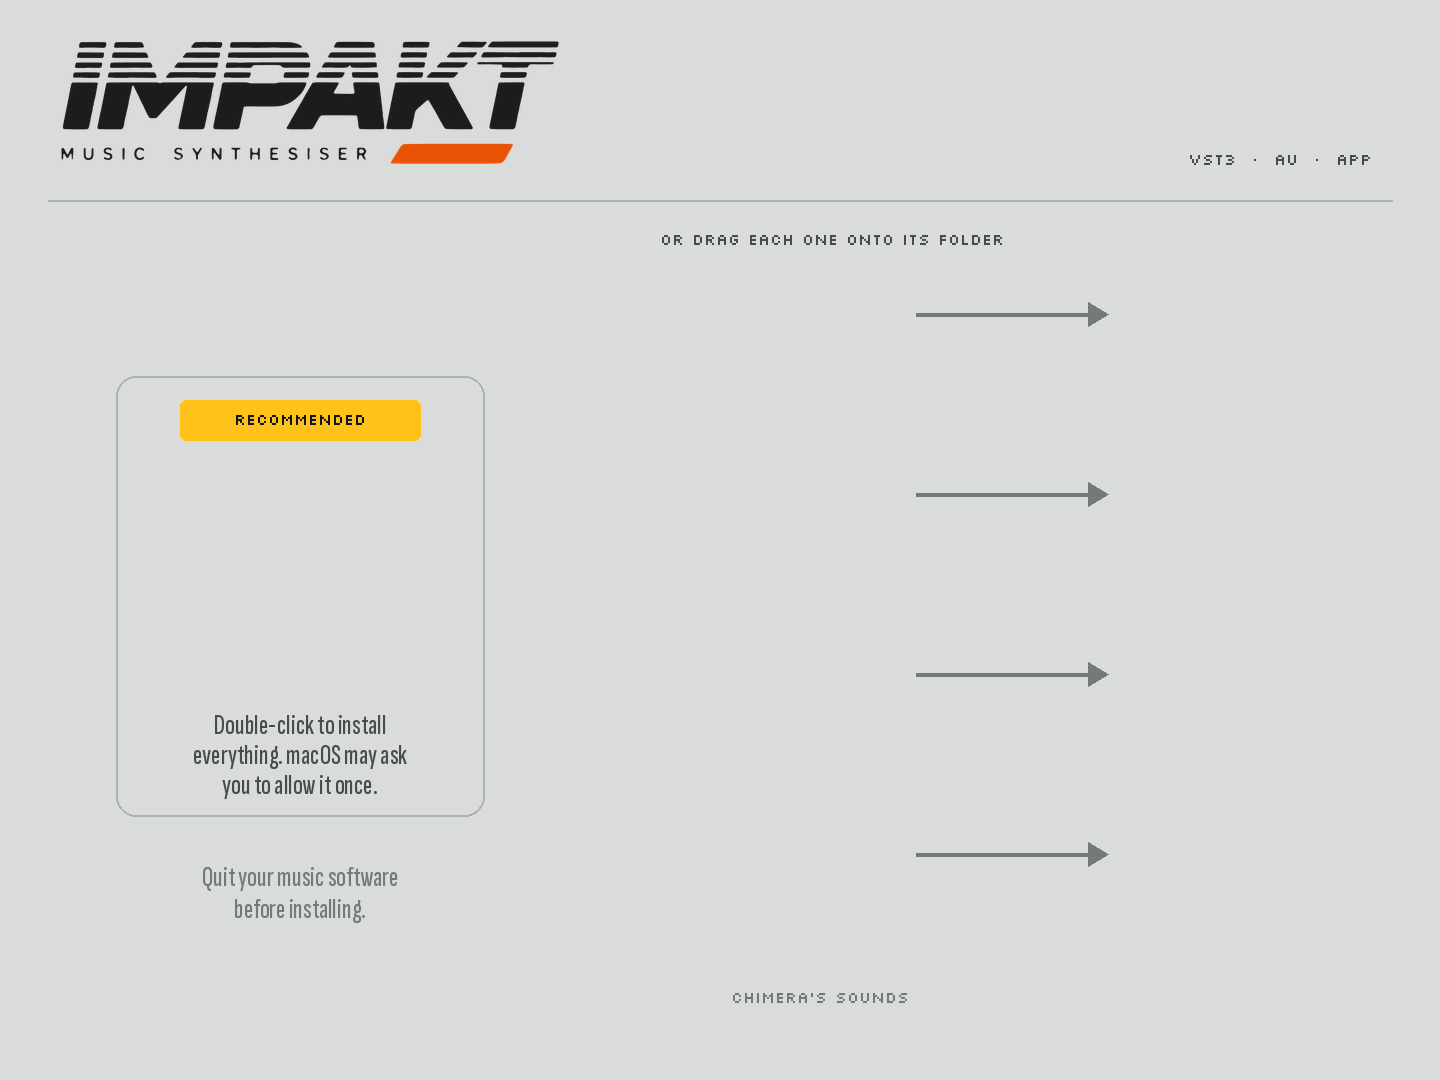
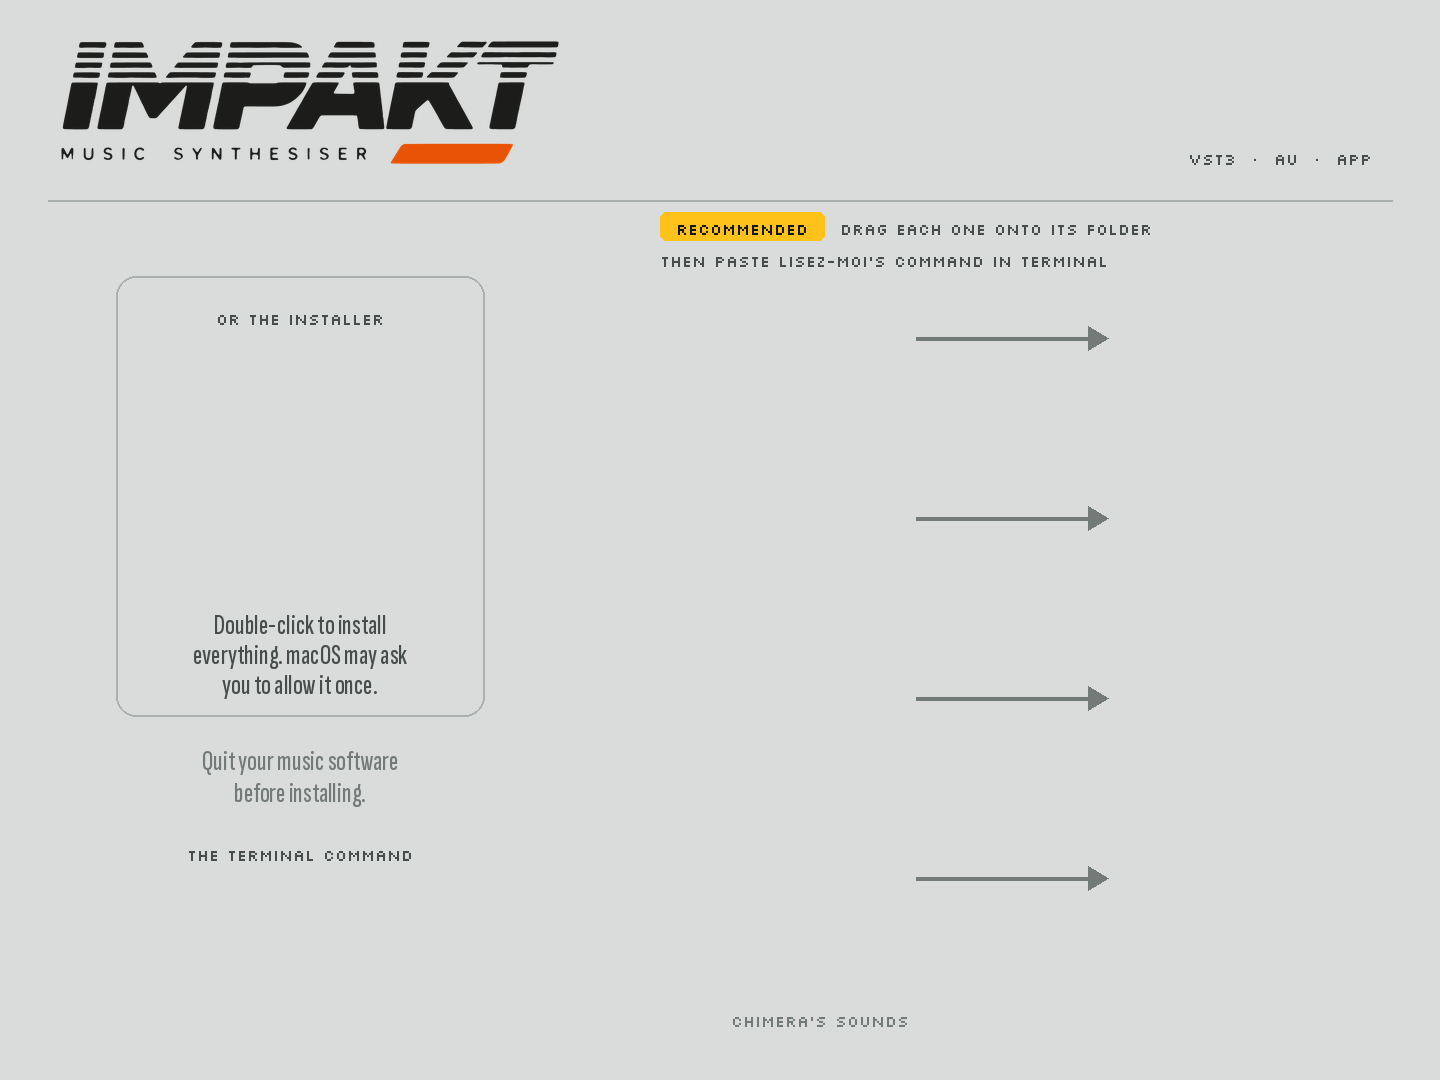
Mac: drag each item onto its folder, then one Terminal command
packaging/mac/terminal-command.txt: one line to paste in Terminal after dragging (or after the
installer): it removes old copies from ~/Library/Audio/Plug-Ins, clears the quarantine and signs
the VST3, the AU and the app again (ad hoc), restarts AudioComponentRegistrar and runs auval,
then says "IMPAKT est prêt." The site's install page shows it at once (copy button, the keys
that open Terminal); the disk image's read-me carries it (make_dmg.sh puts it in) and is now
visible in the window, under the installer; the background marks the drag route as recommended.

Claude-Session: https://claude.ai/code/session_01NNutK6xB6qt9E5xpquZjcG

diff --git a/site/style.css b/site/style.css
@@ -115,6 +115,12 @@ h1 { font: 900 clamp(40px, 7vw, 64px)/0.95 var(--f-display); letter-spacing: .00
 .cmd { position: relative; margin: 6px 0 12px; }
 .cmd pre { margin: 0; background: var(--lcd); color: var(--lcd-ink); padding: 14px 84px 14px 14px; border-radius: 6px; overflow-x: auto; line-height: 1.55; }
 .cmd pre code { background: none; padding: 0; font-size: 13px; color: inherit; overflow-wrap: normal; }
+.cmd.wrap pre { white-space: pre-wrap; padding: 46px 14px 14px; }
+.cmd.wrap pre code { overflow-wrap: anywhere; font-size: 12.5px; }
+kbd { font: 700 14px/1 var(--f-ui); letter-spacing: .04em; padding: 4px 7px 3px; border-radius: 4px; background: var(--key); box-shadow: var(--raise); white-space: nowrap; }
+.pairs { list-style: none; margin: 6px 0 10px; padding: 0; display: grid; gap: 6px; }
+.pairs li { display: flex; flex-wrap: wrap; align-items: baseline; gap: 4px 10px; }
+.pairs span { color: var(--ink-3); }
 .cmd .copy { position: absolute; top: 8px; right: 8px; font: 700 14px/1 var(--f-ui); letter-spacing: .06em; text-transform: uppercase; border: 0; cursor: pointer;
   padding: 8px 10px 7px; border-radius: 4px; background: var(--lcd-lo); color: var(--lcd-ink); }
 

diff --git a/site/site.js b/site/site.js
@@ -37,7 +37,10 @@
   document.querySelectorAll('.cmd .copy').forEach(b => b.addEventListener('click', () => {
     const text = b.parentNode.querySelector('code').textContent;
     const done = () => { b.textContent = 'Copié'; setTimeout(() => { b.textContent = 'Copier'; }, 1500); };
-    if (navigator.clipboard) navigator.clipboard.writeText(text).then(done, () => {});
+    // without the clipboard, the command is selected: Cmd+C copies it
+    const select = () => { const r = document.createRange(); r.selectNodeContents(b.parentNode.querySelector('code'));
+      const sel = getSelection(); sel.removeAllRanges(); sel.addRange(r); };
+    if (navigator.clipboard) navigator.clipboard.writeText(text).then(done, select); else select();
   }));
 
   // the release really published (its version and date), from GitHub

diff --git a/packaging/mac/draw_background.py b/packaging/mac/draw_background.py
@@ -12,8 +12,8 @@ FONTS = os.path.join(HERE, '..', '..', 'web', 'fonts')
 W, H = 720, 540
 PANEL, INK, INK2, INK3, LINE, HOT, RED = '#D9DCDA', '#141617', '#464D4B', '#737B78', '#ABB1AF', '#FFC21A', '#E85305'
 # the icons' centres (points), as in dmg_settings.py
-PKG = (150, 300)
-ROWS = [(410, 165, 600), (410, 255, 600), (410, 345, 600), (410, 435, 600)]   # (file x, y, folder x)
+PKG = (150, 250)
+ROWS = [(410, 177, 600), (410, 267, 600), (410, 357, 600), (410, 447, 600)]   # (file x, y, folder x)
 
 
 def font(name, size):
@@ -37,28 +37,34 @@ def draw(scale):
     t = 'VST3  ·  AU  ·  APP'
     d.text((s(W - 34) - d.textlength(t, font=px), s(74)), t, font=px, fill=INK2)
     d.line((s(24), s(100), s(W - 24), s(100)), fill=LINE, width=max(1, s(1)))
-    # left: the installer (a yellow key behind it, as CONTROL ALL's)
+    # left: the installer, in its box
     d.rounded_rectangle((s(PKG[0] - 92), s(PKG[1] - 112), s(PKG[0] + 92), s(PKG[1] + 108)), radius=s(10), outline=LINE, width=max(1, s(1)))
-    d.rounded_rectangle((s(PKG[0] - 60), s(PKG[1] - 100), s(PKG[0] + 60), s(PKG[1] - 80)), radius=s(3), fill=HOT)
-    t = 'RECOMMENDED'
+    t = 'OR THE INSTALLER'
     w = d.textlength(t, font=px)
-    d.text((s(PKG[0]) - w / 2, s(PKG[1] - 96)), t, font=px, fill=INK)
+    d.text((s(PKG[0]) - w / 2, s(PKG[1] - 96)), t, font=px, fill=INK2)
     for k, line in enumerate(['Double-click to install', 'everything. macOS may ask', 'you to allow it once.']):
         w = d.textlength(line, font=small)
         d.text((s(PKG[0]) - w / 2, s(PKG[1] + 54 + 15 * k)), line, font=small, fill=INK2)
-    # right: or by hand, each one onto its folder
-    t = 'OR DRAG EACH ONE ONTO ITS FOLDER'
-    d.text((s(330), s(114)), t, font=px, fill=INK2)
+    # right, recommended (a yellow key, as CONTROL ALL's): each one onto its folder, then the read-me's Terminal command
+    t = 'RECOMMENDED'
+    kw = d.textlength(t, font=px) / scale + 16
+    d.rounded_rectangle((s(330), s(106), s(330 + kw), s(120)), radius=s(3), fill=HOT)
+    d.text((s(338), s(109)), t, font=px, fill=INK)
+    d.text((s(330 + kw + 8), s(109)), 'DRAG EACH ONE ONTO ITS FOLDER', font=px, fill=INK2)
+    d.text((s(330), s(125)), "THEN PASTE LISEZ-MOI'S COMMAND IN TERMINAL", font=px, fill=INK2)
     # the last row: the folder IMPAKT holds CHIMERA's sounds
     t2 = "CHIMERA'S SOUNDS"
-    d.text((s(410) - d.textlength(t2, font=px) / 2, s(435 + 58)), t2, font=px, fill=INK3)
+    d.text((s(410) - d.textlength(t2, font=px) / 2, s(ROWS[-1][1] + 58)), t2, font=px, fill=INK3)
     for (fx, y, gx) in ROWS:
         a, b = fx + 48, gx - 48
         d.line((s(a), s(y - 8), s(b), s(y - 8)), fill=INK3, width=max(1, s(2)))
         d.polygon([(s(b + 2), s(y - 8)), (s(b - 8), s(y - 14)), (s(b - 8), s(y - 2))], fill=INK3)
     for k, line in enumerate(['Quit your music software', 'before installing.']):
         w = d.textlength(line, font=small)
-        d.text((s(PKG[0]) - w / 2, s(PKG[1] + 130 + 16 * k)), line, font=small, fill=INK3)
+        d.text((s(PKG[0]) - w / 2, s(PKG[1] + 122 + 16 * k)), line, font=small, fill=INK3)
+    # under it, the read-me: the Terminal command
+    t = 'THE TERMINAL COMMAND'
+    d.text((s(PKG[0]) - d.textlength(t, font=px) / 2, s(422)), t, font=px, fill=INK2)
     return im
 
 

diff --git a/packaging/mac/dmg_settings.py b/packaging/mac/dmg_settings.py
@@ -11,12 +11,12 @@ files = [os.path.join(stage, n) for n in ('Install IMPAKT.pkg', 'IMPAKT.vst3', '
 symlinks = {'VST3': '/Library/Audio/Plug-Ins/VST3', 'Components': '/Library/Audio/Plug-Ins/Components', 'Applications': '/Applications',
             'Application Support': '/Library/Application Support'}
 icon_locations = {
-    'Install IMPAKT.pkg': (150, 300),
-    'IMPAKT.vst3': (410, 165), 'VST3': (600, 165),
-    'IMPAKT.component': (410, 255), 'Components': (600, 255),
-    'IMPAKT.app': (410, 345), 'Applications': (600, 345),
-    'IMPAKT': (410, 435), 'Application Support': (600, 435),
-    'LISEZ-MOI.txt': (150, 640),  # (below the window's edge: there, but out of the way)
+    'Install IMPAKT.pkg': (150, 250),
+    'IMPAKT.vst3': (410, 177), 'VST3': (600, 177),
+    'IMPAKT.component': (410, 267), 'Components': (600, 267),
+    'IMPAKT.app': (410, 357), 'Applications': (600, 357),
+    'IMPAKT': (410, 447), 'Application Support': (600, 447),
+    'LISEZ-MOI.txt': (150, 470),  # (the Terminal command)
 }
 format = 'ULFO'                   # (lzfse: macOS 10.11 and later)
 filesystem = 'HFS+'

diff --git a/site/build_site.py b/site/build_site.py
@@ -284,6 +284,9 @@ home = '''<main>
 
 # ------------------------------------------------------------------ the install guide
 install = open(os.path.join(SITE, 'install.html.in'), encoding='utf-8').read()
+# the Mac's Terminal command (packaging/mac/terminal-command.txt, also in the disk image's read-me)
+MACCMD = open(os.path.join(ROOT, 'packaging', 'mac', 'terminal-command.txt'), encoding='utf-8').read().strip()
+install = install.replace('@MACCMD@', html.escape(MACCMD, quote=False))
 install = install.replace('@PHOTO@', photo('soudure-miroir', 'photo banner', True)).replace('@DL@', DL).replace('@GH@', GH).replace('@VERSION@', VERSION)
 for k, v in ASSETS.items():
     install = install.replace('@%s@' % k.upper(), v)
